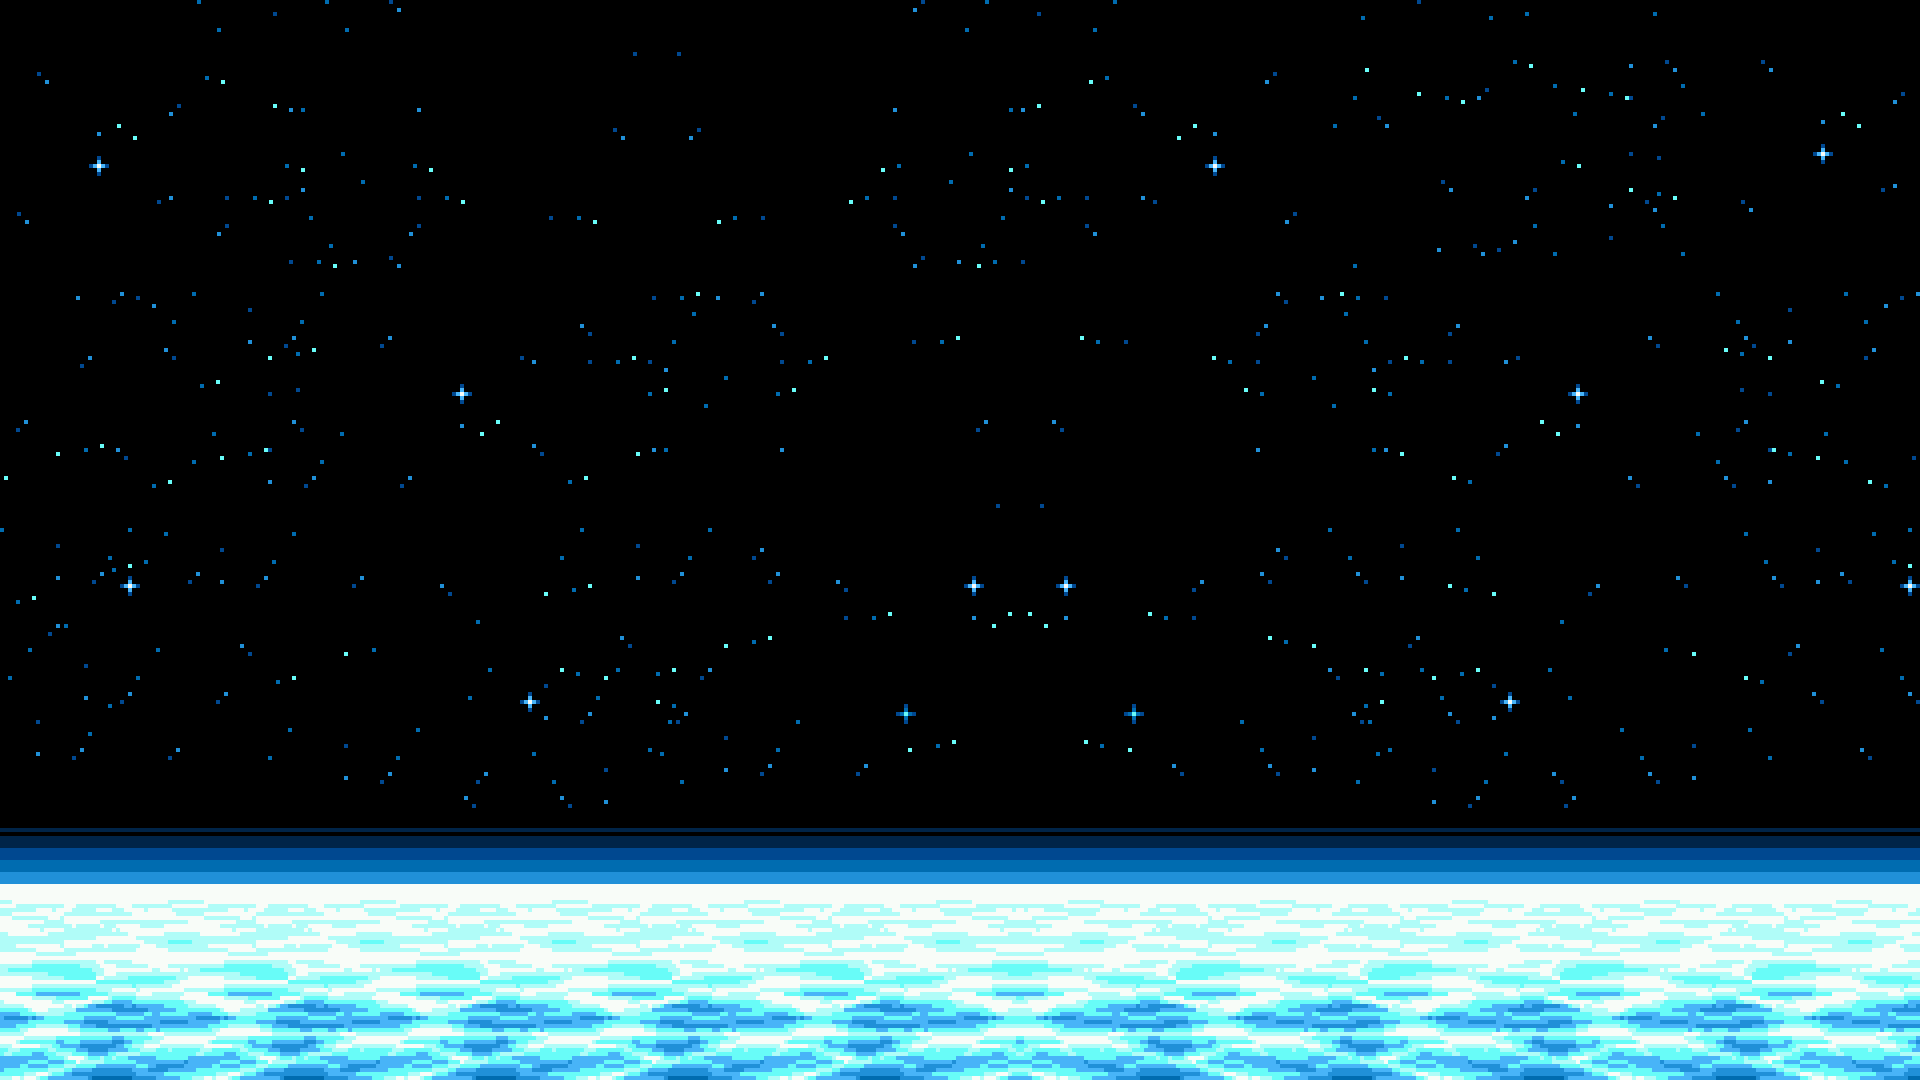
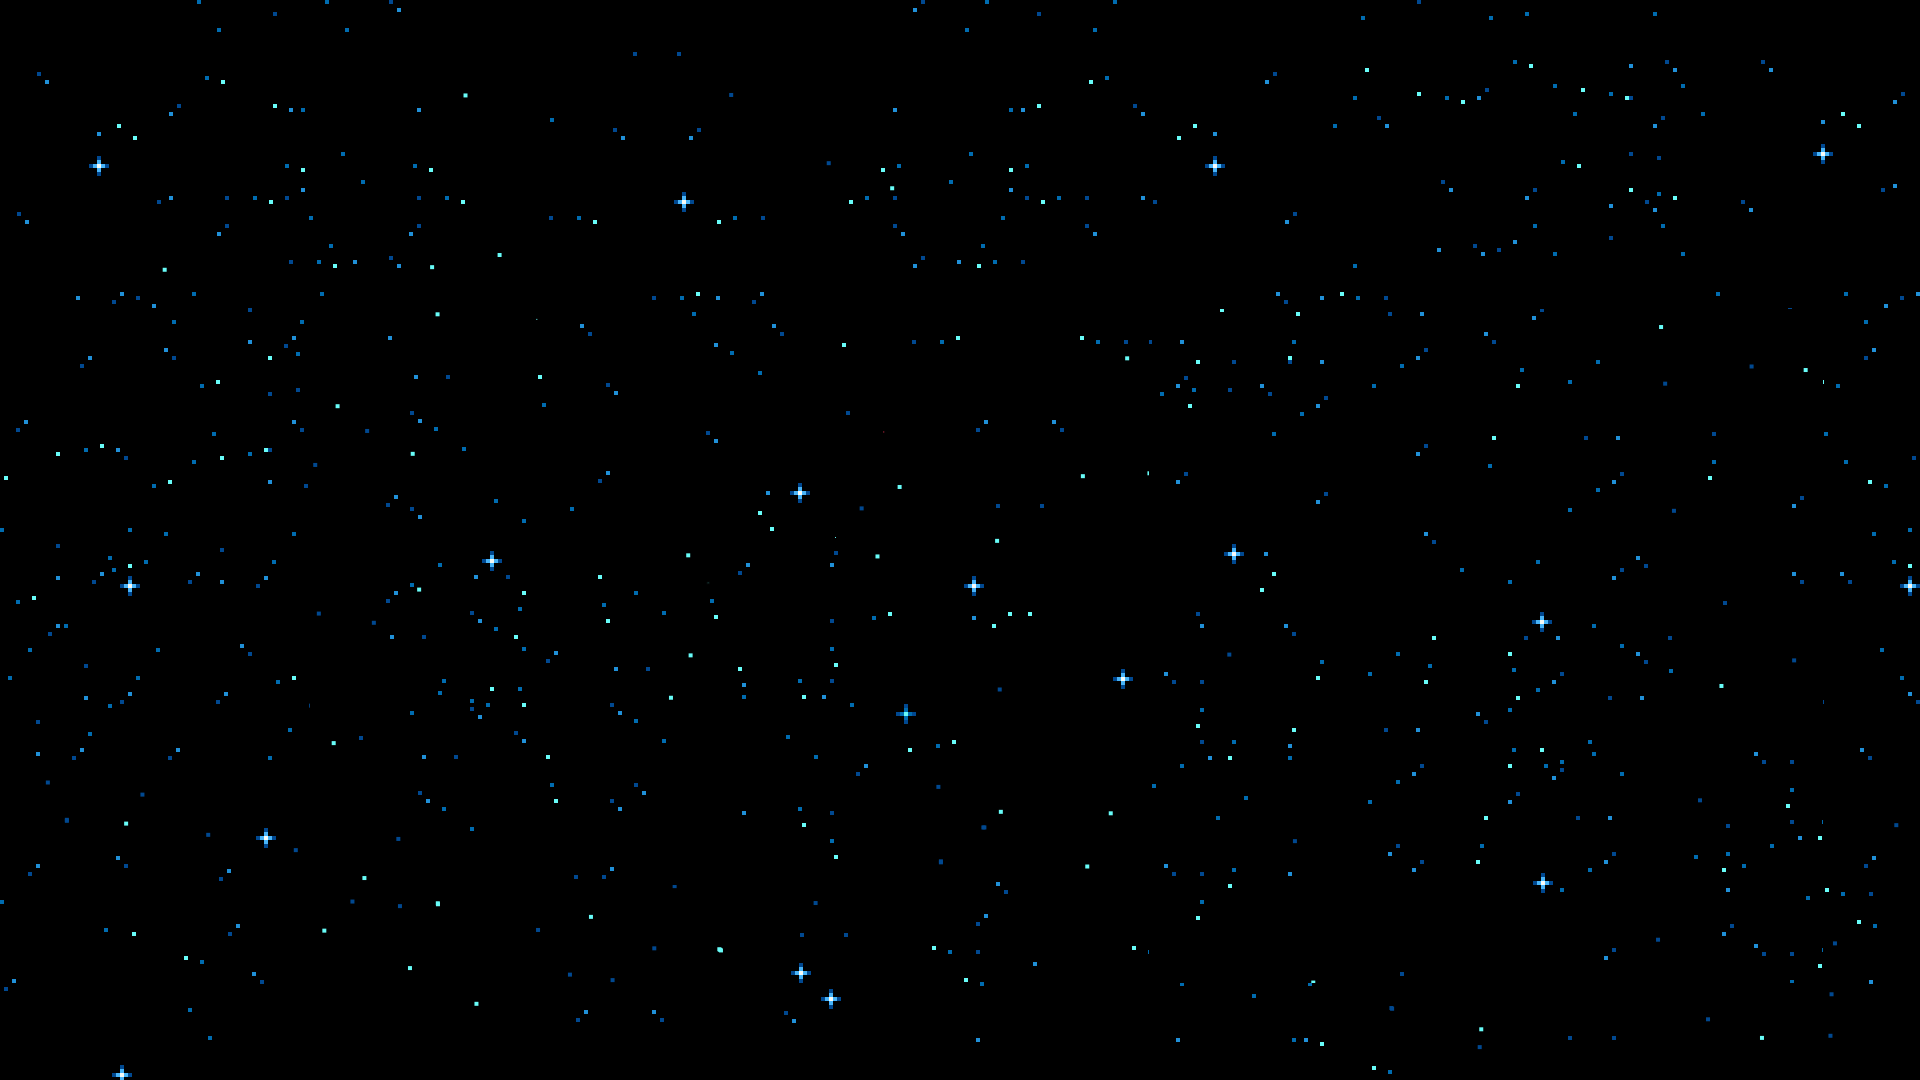
Removing some test images. Updating style a little

Changed region(s): [[0.0, 0.7639, 1.0, 1.0]]

diff --git a/routes/index.js b/routes/index.js
@@ -28,7 +28,7 @@ function refreshPrices () {
 refreshPrices();
 
 router.get('/', function(req, res) {
-	res.render('starwars', { title: 'Work-Work', menuItems: menuItems});
+	res.render('index', { title: 'Work-Work', menuItems: menuItems});
 });
 
 router.get('/starwars', function(req, res) {
